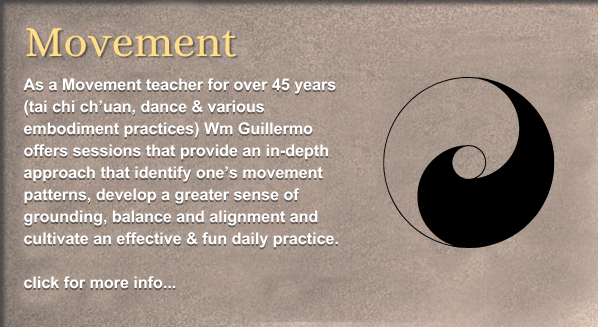
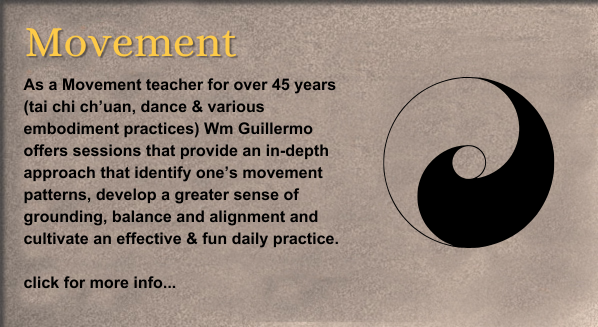
update

diff --git a/css/styles.css b/css/styles.css
@@ -593,8 +593,6 @@ hr {
 #content a:visited,
 #content a:hover,
 #content a:active {
-  font-size: 1.1em;
-  line-height: 1.5em;
   margin-bottom: 0;
   color: inherit;
   font-style: italic;
